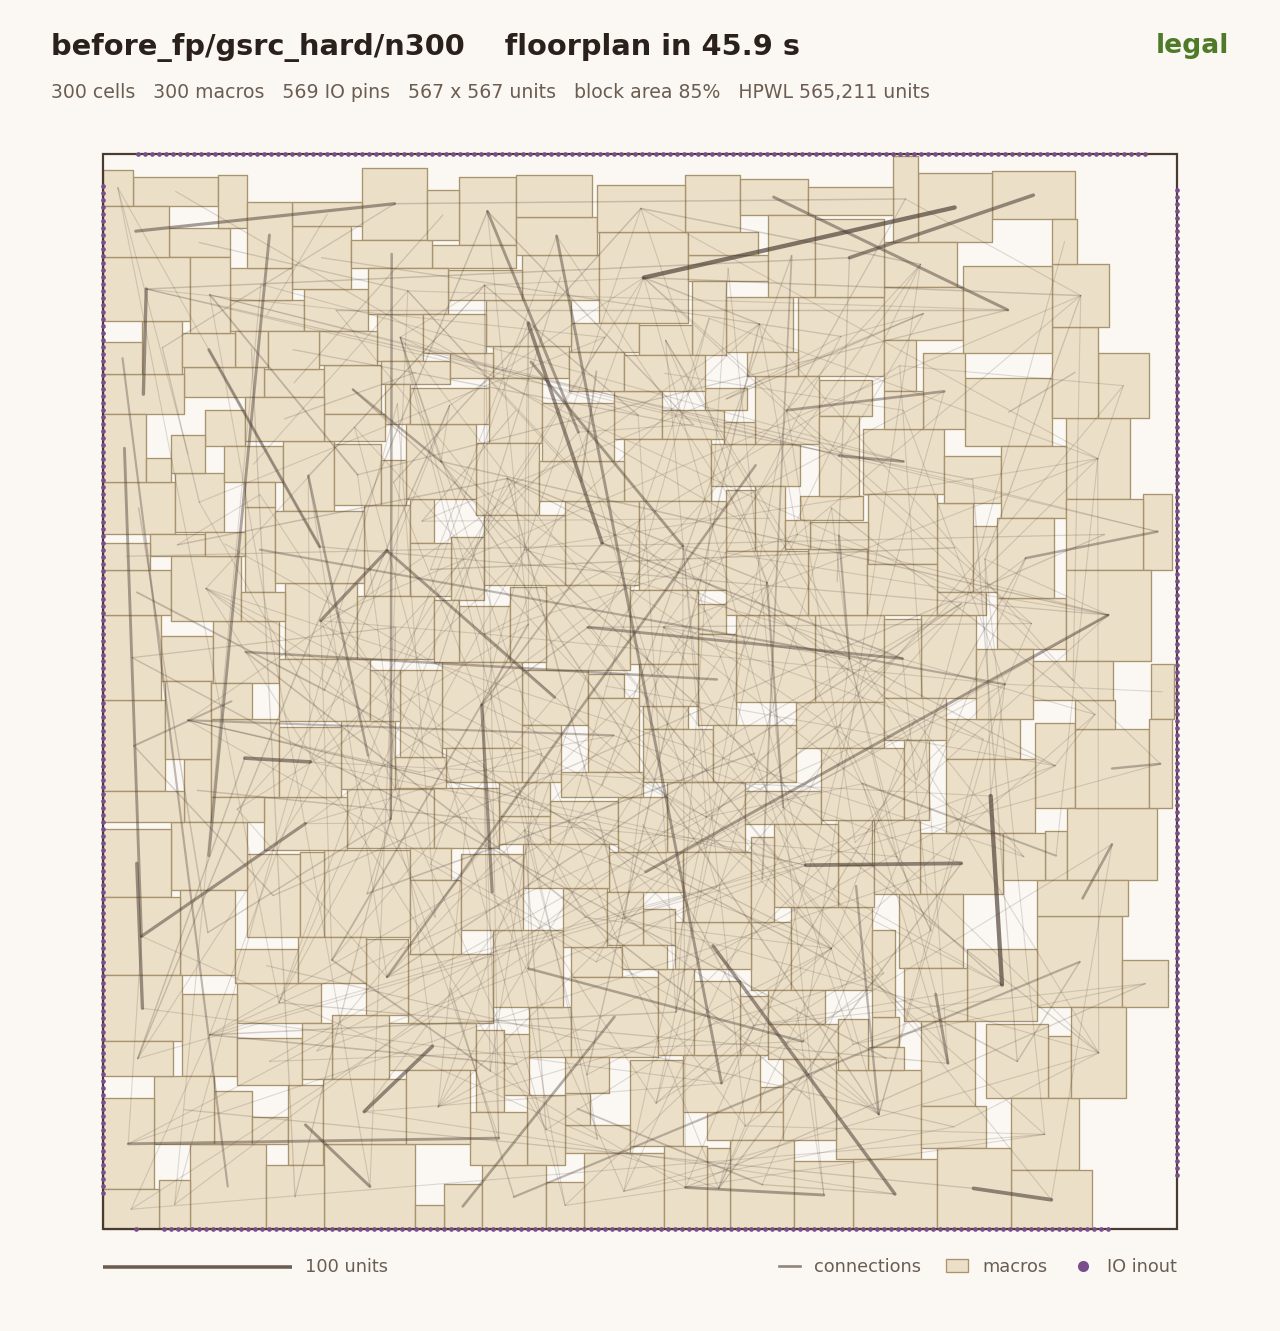
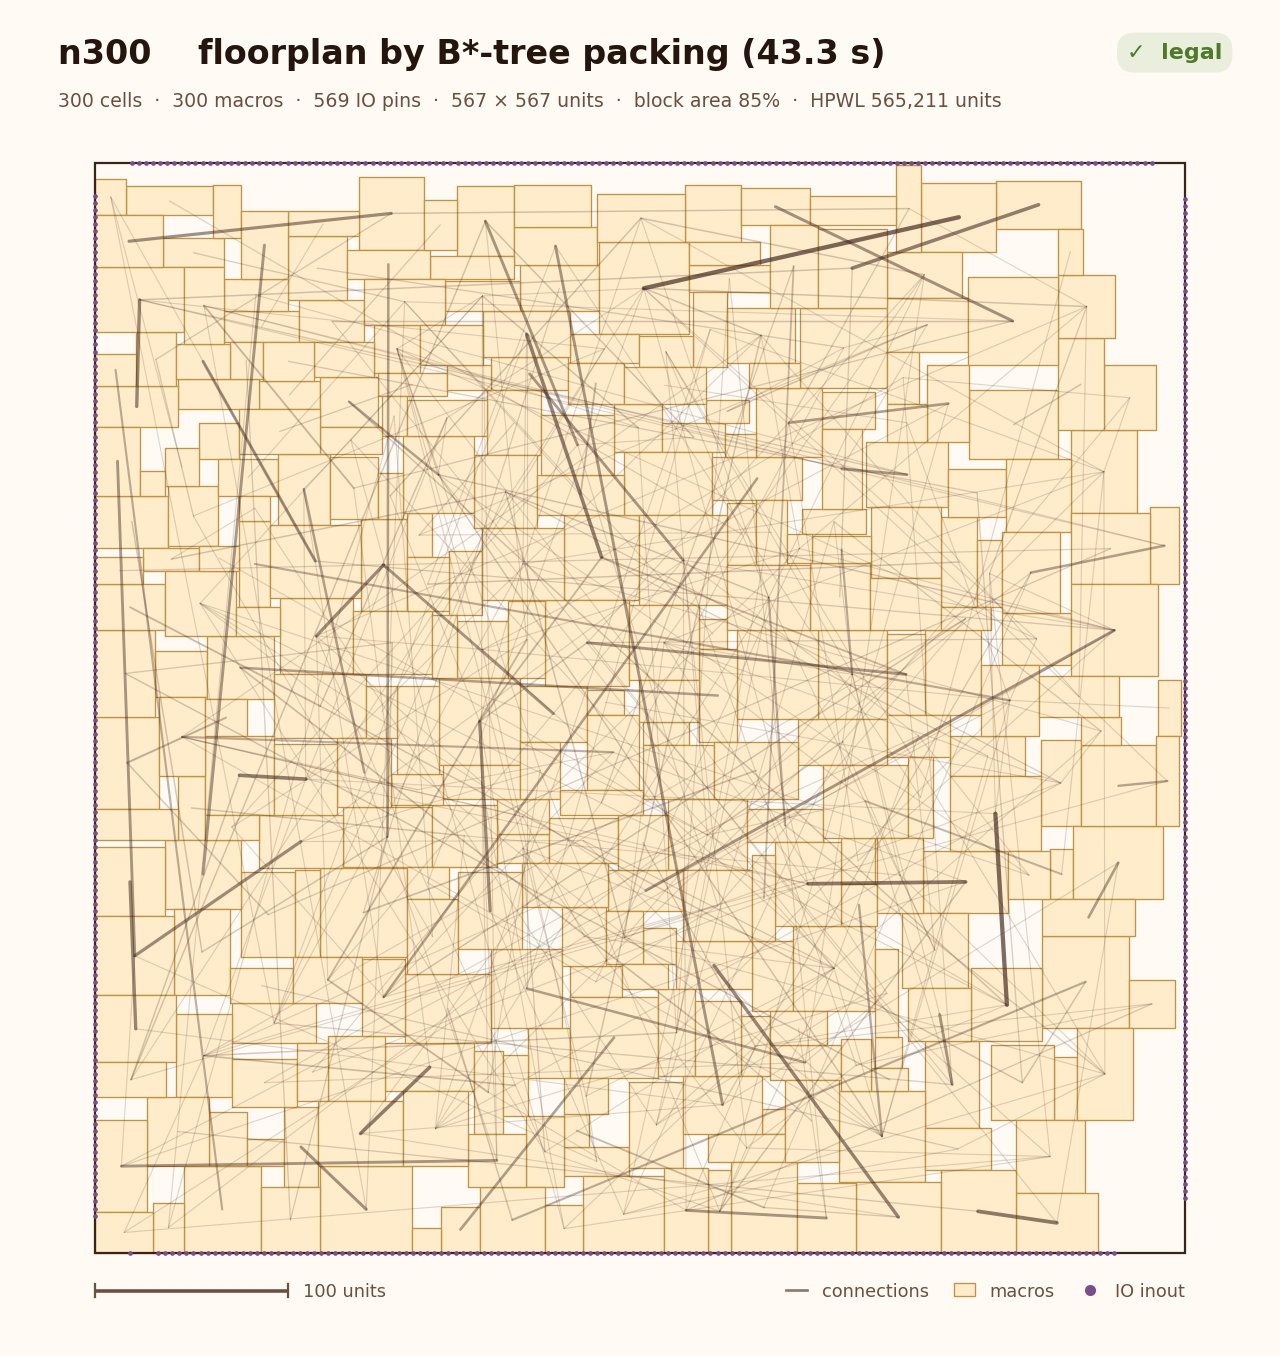
README gallery: what the Evaluator sees
Four d.plot views of real attar.naive runs: global-routing overflow on cva6 (tiles='gr_overflow'), pin access on
ariane136 right after global placement (12,165 cells with a signal pin on the PDN, tiles='pin_access'), the same
design legalized (0 left on the PDN), and GSRC n300 packed with its strongest block-IO connections.
tools/make_readme_figures.py makes them.

Changed region(s): [[0.0312, 0.0308, 0.9375, 0.9549], [0.9062, 0.0308, 0.9688, 0.0616]]

diff --git a/tools/make_readme_figures.py b/tools/make_readme_figures.py
@@ -1,8 +1,9 @@
 #!/usr/bin/env python3
 """Figures for README.md (docs/images):
   proxy_agreement.png               how often routed WL moves the same way as HPWL, by HPWL gap (pa_pdn, spec 7.1)
-  gallery/*.png                     designs placed by attar.naive (run with --gallery [name ...]: all, or those
-                                    figures, e.g. --gallery bp_quad; needs the zoo and a GPU)"""
+  gallery/*.png                     what the Evaluator sees, on designs placed by attar.naive (run with
+                                    --gallery [name ...]: all, or those figures, e.g. --gallery eval_grov; needs the
+                                    zoo and a GPU)"""
 import io
 import contextlib
 import os
@@ -53,30 +54,51 @@ def proxy_agreement(mode):
 
 
 def gallery(only=()):
+    """What the Evaluator sees, one view per figure (attar.viz tiles), from real runs of attar.naive:
+      eval_grov         cva6 (ASAP7) placed: global-routing load on OpenROAD's gcells (d.gr_overflow)
+      eval_pin_access   ariane136 (NS3K) after global placement: cells with a signal pin on the PDN
+      eval_placed       the same after legalization: legal, rails and PDN included
+      fp_n300           GSRC n300 floorplanned by B*-tree packing: legality and the macro / IO connections"""
     sys.path.insert(0, ROOT)
     import time
     import attar
-    # (zoo name, file, what runs, its arguments): two floorplan problems (the die for a block area, IO pins and blocks
-    # by B*-tree packing; the cva6 placement comes from tools/make_demo_gif.py) and a placement problem
-    jobs = [('before_fp/gsrc_hard/n300', 'fp_n300.png', 'floorplan', dict(utilization=0.85, packing=True)),
-            ('before_fp/mcnc/ami49', 'fp_ami49.png', 'floorplan', dict(utilization=0.80, packing=True)),
-            ('after_fp/ns3k_pl_u80/ariane136', 'ariane136.png', 'place', {})]
-    for name, fn, how, kw in jobs:
-        if only and fn[:-4] not in only:
-            continue
-        d = attar.load(name, 'cuda'); t = time.time()
-        with contextlib.redirect_stdout(io.StringIO()):
-            if how == 'floorplan':
-                d.floorplan(**kw)
-            else:
-                d.unplace(); d.place(**kw)
-        sec = time.time() - t
-        title = '%s    %s in %.1f s' % (name, {'floorplan': 'floorplan', 'place': 'placement'}[how], sec)
-        os.makedirs(os.path.join(IMG, 'gallery'), exist_ok=True)
-        d.plot(os.path.join(IMG, 'gallery', fn), title=title, dpi=160)
-        print('wrote', fn, title)
-        del d
+    from attar import naive
+    out = os.path.join(IMG, 'gallery')
+    os.makedirs(out, exist_ok=True)
 
+    def quiet(fn):
+        t = time.time()
+        with contextlib.redirect_stdout(io.StringIO()):
+            r = fn()
+        return r, time.time() - t
+
+    def save(d, fn, title, **kw):
+        d.plot(os.path.join(out, fn + '.png'), title=title, dpi=160, **kw).clf()
+        print('wrote', fn, '|', title)
+
+    if not only or 'eval_grov' in only:
+        d = attar.load('after_fp/orfs_asap7/cva6', 'cuda')
+        _, sec = quiet(d.place)
+        g = d.gr_overflow()
+        save(d, 'eval_grov', 'cva6    global-routing overflow after placement (%.1f s)' % sec, tiles='gr_overflow')
+        print('   GROV %.2f%%' % g['grov_%'])
+        del d
+    if not only or {'eval_pin_access', 'eval_placed'} & set(only):
+        d = attar.load('after_fp/ns3k_pl_u80/ariane136', 'cuda')
+        ev = attar.Evaluator(d)
+        _, sec = quiet(lambda: naive.global_place(d))
+        save(d, 'eval_pin_access', 'ariane136    pin access after global placement (%.1f s)' % sec, tiles='pin_access')
+        _, sec = quiet(lambda: naive.legalize(d))
+        lg = ev.legality()
+        save(d, 'eval_placed', 'ariane136    legalized (%.1f s)' % sec)
+        print('   legality', lg)
+        del d
+    if not only or 'fp_n300' in only:
+        d = attar.load('before_fp/gsrc_hard/n300', 'cuda')
+        _, sec = quiet(lambda: d.floorplan(utilization=0.85, packing=True))
+        save(d, 'fp_n300', 'n300    floorplan by B*-tree packing (%.1f s)' % sec)
+        print('   legal', d.floorplan_legal(), 'HPWL %.4g' % d.hpwl().item())
+        del d
 
 if __name__ == '__main__':
     os.makedirs(IMG, exist_ok=True)

diff --git a/README.md b/README.md
@@ -130,26 +130,31 @@ More: [concepts](docs/concepts.md) · [benchmarks](docs/benchmarks.md) · [API](
 
 ## Gallery
 
+What the Evaluator sees: each view is `d.plot(tiles=...)` on a real run of `attar.naive`.
+
 <table>
 <tr>
-<td width="50%"><img src="docs/images/gallery/fp_n300.png" alt="GSRC n300 floorplanned by attar.naive with B*-tree packing"></td>
-<td width="50%"><img src="docs/images/gallery/fp_ami49.png" alt="MCNC ami49 floorplanned by attar.naive with B*-tree packing"></td>
+<td width="50%"><img src="docs/images/gallery/eval_grov.png" alt="cva6 after placement, colored by global-routing load on OpenROAD's gcells"></td>
+<td width="50%"><img src="docs/images/gallery/eval_pin_access.png" alt="ariane136 after global placement: cells with a signal pin on the PDN, in stripes along the power grid"></td>
 </tr>
 <tr>
-<td><sub><b>GSRC n300</b> (floorplan mode): 300 hard blocks and 569 IO pins, no die given. Attar sizes one for 85% block
-area and packs the blocks (B*-tree) in 46 s: legal, HPWL 565k.</sub></td>
-<td><sub><b>MCNC ami49</b> (floorplan mode): 49 blocks of very different sizes in a die sized for 80% block area,
-packed in 2.3 s: legal, HPWL 948k.</sub></td>
+<td><sub><b>Global-routing overflow</b> (<code>d.gr_overflow()</code>, <code>tiles='gr_overflow'</code>): cva6 (ASAP7)
+placed in 2.4 s, RUDY demand against OpenROAD's gcell capacities. GROV 0.73%: the channel left of the SRAMs and
+the dense logic at the lower right are where the router will struggle.</sub></td>
+<td><sub><b>Pin access</b> (<code>tiles='pin_access'</code>): ariane136 (NS3K, 136 SRAMs) right after global
+placement. 12,165 cells have a signal pin on the PDN's via metal, in stripes along the power grid: NS3K's via
+stacks cross the M1 pin layer.</sub></td>
 </tr>
 <tr>
-<td><img src="docs/images/gallery/cva6.png" alt="cva6 placed by attar.naive"></td>
-<td><img src="docs/images/gallery/ariane136.png" alt="ariane136 on NS3K at 80% density placed by attar.naive"></td>
+<td><img src="docs/images/gallery/eval_placed.png" alt="ariane136 legalized: legal, rails and PDN included"></td>
+<td><img src="docs/images/gallery/fp_n300.png" alt="GSRC n300 floorplanned by B*-tree packing, with the strongest connections between blocks and IO pins"></td>
 </tr>
 <tr>
-<td><sub><b>cva6</b> (ASAP7, ORFS global placement stage): 121k cells around 8 SRAMs in 2.4 s. ORFS routes it with
-0 DRC and 7.4% less wire than its own placement.</sub></td>
-<td><sub><b>ariane136</b> (NS3K, Innovus floorplan at 80% std-cell density): 170k cells around 136 SRAMs in 5.2 s,
-legal including power rails and the PDN; OpenROAD's <code>check_placement</code> and global routing pass.</sub></td>
+<td><sub><b>Legality</b> (<code>ev.legality()</code>): the same design legalized in 2.4 s. Rows, sites, overlaps,
+power-rail parity and the PDN all check out: 0 cells left on the PDN.</sub></td>
+<td><sub><b>Floorplan legality and connections</b> (<code>d.floorplan_legal()</code>, <code>nets</code>): GSRC n300,
+300 hard blocks and 569 IO pins, no die given. Attar sizes one for 85% block area and packs the blocks (B*-tree) in
+43 s: legal, HPWL 565k. The lines are the strongest connections between blocks and IO pins.</sub></td>
 </tr>
 </table>
 
